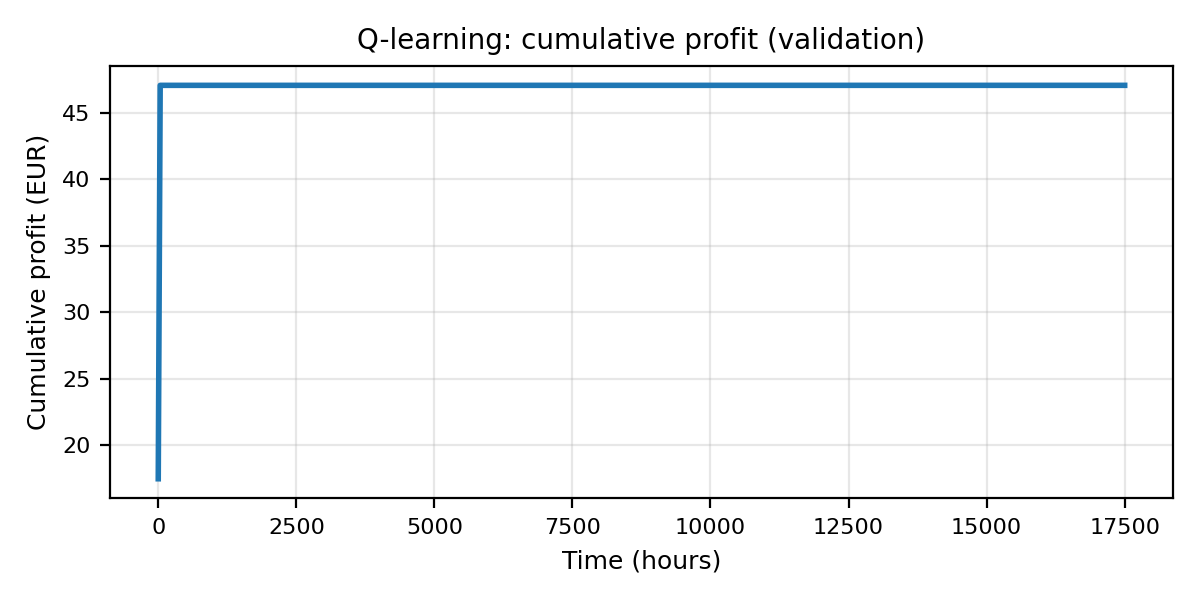
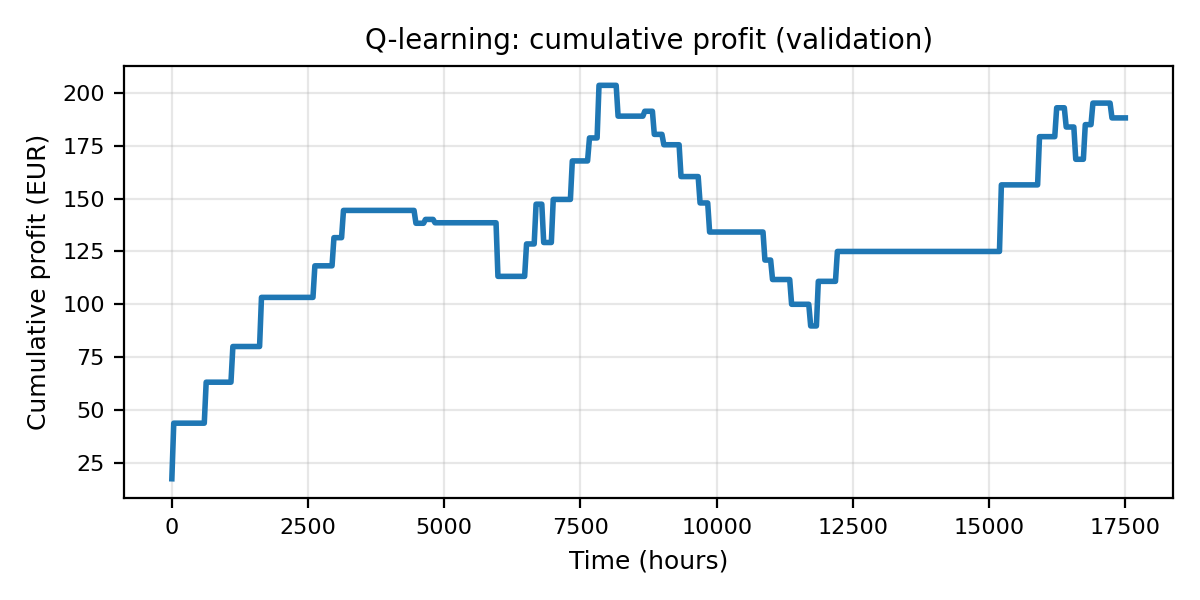
feauture engineering 1

diff --git a/qlearning_features.py b/qlearning_features.py
@@ -21,7 +21,7 @@ IMG_DIR = os.path.join(img_root, alg_name)
 
 MAX_VOLUME = 100_000  # m3
 
-N_EPISODES = 20
+N_EPISODES = 50
 ALPHA = 0.1
 GAMMA = 0.99
 EPSILON_START = 1.0
@@ -50,14 +50,103 @@ train_long = train.melt(
 # price bins from training distribution
 PRICE_BINS = np.quantile(train_long["Price"], [0.25, 0.5, 0.75])
 
-# hier moet iets anders want we hebben dan andere features
 def discretize_observation(observation):
-    pass
+    """
+    Feature-engineered discretisation using ONLY available env features.
+    Fully compatible with existing plots & env.
+    """
+    obs = parse_observation(observation)
+
+  
+    v_ratio = obs["volume"] / MAX_VOLUME
+    if v_ratio < 0.1:
+        volume_bin = 0
+    elif v_ratio < 0.3:
+        volume_bin = 1
+    elif v_ratio < 0.7:
+        volume_bin = 2
+    elif v_ratio < 0.9:
+        volume_bin = 3
+    else:
+        volume_bin = 4
+
+
+    price_bin = int(np.digitize(obs["price"], PRICE_BINS))
+
+    if price_bin == 0:
+        price_extreme = 0      # very low
+    elif price_bin == 3:
+        price_extreme = 2      # very high
+    else:
+        price_extreme = 1      # mid
+
+
+    h = obs["hour"]
+    if h <= 6:
+        hour_group = 0         # night
+    elif h <= 12:
+        hour_group = 1         # morning
+    elif h <= 18:
+        hour_group = 2         # afternoon
+    else:
+        hour_group = 3         # evening
+
+    weekday_bin = obs["weekday"]
+    hour_bin = obs["hour"] - 1   # keep for plots
+
+    return (
+        volume_bin,
+        price_bin,
+        price_extreme,
+        hour_group,
+        hour_bin,
+        weekday_bin,
+    )
 
 # kan hetezelfde als in q_learning.py,  maar dan wel die andere discretized observations 
 def make_agent():
-    pass
+    """
+    Create and train a tabular Q-learning agent
+    using feature-engineered discretisation.
+    """
+    agent = QLearningPolicy(
+        discretize_fn=discretize_observation,
+        actions=ACTIONS,
+        n_actions=N_ACTIONS,
+        alpha=ALPHA,
+        gamma=GAMMA,
+        epsilon_start=EPSILON_START,
+        epsilon_end=EPSILON_END,
+        epsilon_decay=EPSILON_DECAY,
+        n_episodes=N_EPISODES,
+        env_class=HydroElectric_Test,
+        train_path="train.xlsx",
+    )
 
+    agent.train()
+    return agent
+
+def reduce_Q_for_plotting(Q):
+    """
+    Reduce high-dimensional Q-table to 4D (v, p, h, w)
+    by averaging over the extra feature dimensions.
+    """
+    from collections import defaultdict
+
+    Q_reduced = defaultdict(lambda: np.zeros(len(ACTIONS)))
+    counts = defaultdict(int)
+
+    for state, q_vals in Q.items():
+        v, p, _, _, h, w = state   # negeer extra features
+        key = (v, p, h, w)
+
+        Q_reduced[key] += q_vals
+        counts[key] += 1
+
+    for key in Q_reduced:
+        Q_reduced[key] /= counts[key]
+
+    return dict(Q_reduced)
 
 # precies hetzelfde als normale tabular qlearning maar dan andere nam voor plotjes
 if __name__ == "__main__":
@@ -103,9 +192,10 @@ if __name__ == "__main__":
         "featql_mean_action_by_hour.png",
         "Q-learning: mean action by hour"
     )
+    Q_plot = reduce_Q_for_plotting(policy.Q)
 
     plot_q_value_heatmap(
-        policy.Q,
+        Q_plot,
         fixed_hour=12,
         fixed_weekday=0,
         out_dir=IMG_DIR,
@@ -114,7 +204,7 @@ if __name__ == "__main__":
     )
 
     plot_policy_heatmap(
-        policy.Q,
+        Q_plot,
         fixed_hour=12,
         fixed_weekday=0,
         out_dir=IMG_DIR,

diff --git a/qlearning.py b/qlearning.py
@@ -25,7 +25,7 @@ IMG_DIR = os.path.join(img_root, alg_name)
 MAX_VOLUME = 100_000  # m3
 
 # Q-learning hyperparameters
-N_EPISODES = 20
+N_EPISODES = 50
 ALPHA = 0.1
 GAMMA = 0.99
 EPSILON_START = 1.0
